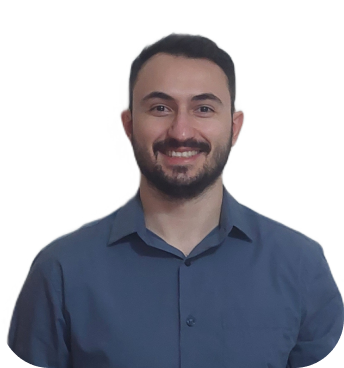
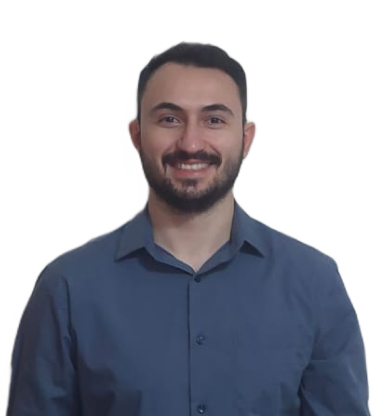
ajusta a sessao de Sobre para a reatividade

diff --git a/src/components/cards/Picture.tsx b/src/components/cards/Picture.tsx
@@ -1,11 +1,7 @@
 function Picture() {
   return (
-    <div className="rounded-large shadow-card shadow-light-grey h-96 w-80 bg-primary relative">
-      <img
-        className="absolute bottom-0"
-        src="/images/profile.png"
-        alt="profile"
-      />
+    <div className="rounded-large shadow-card shadow-light-grey h-96 max-w-screen-sm w-full bg-primary flex justify-center items-end large:w-80 large:overflow-hidden">
+      <img src="/images/profile.png" alt="profile" />
     </div>
   );
 }

diff --git a/src/components/content/About.tsx b/src/components/content/About.tsx
@@ -15,7 +15,10 @@ function About() {
   }
 
   return (
-    <div id="about" className="flex justify-between mt-14">
+    <div
+      id="about"
+      className="mt-14 flex flex-col items-center gap-10 large:flex-row large:justify-betwween"
+    >
       <ExpandableCard
         borderRadius={"rounded-card"}
         maxWidth={"max-w-screen-sm"}

diff --git a/tailwind.config.js b/tailwind.config.js
@@ -51,7 +51,8 @@ export default {
         "fade-in": "fade-in 0.5s ease-in",
       },
       screens: {
-        medium: "769px"
+        medium: "769px",
+        large: "1441px"
       }
     },
   },
